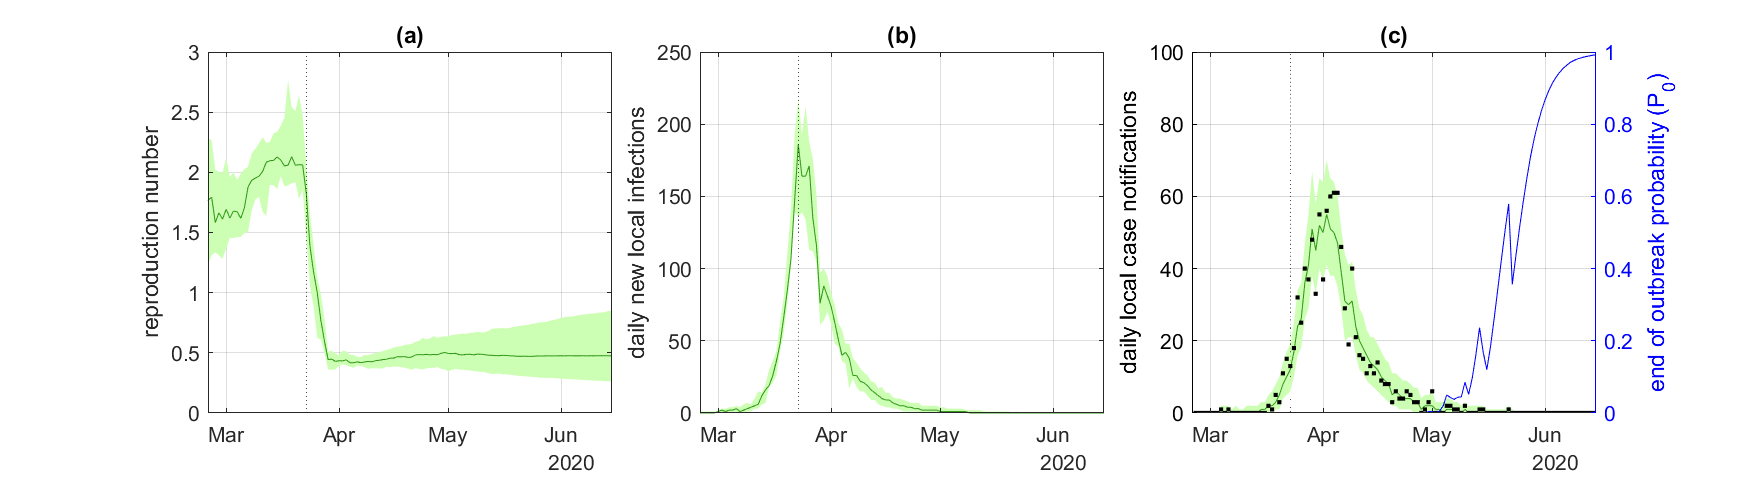
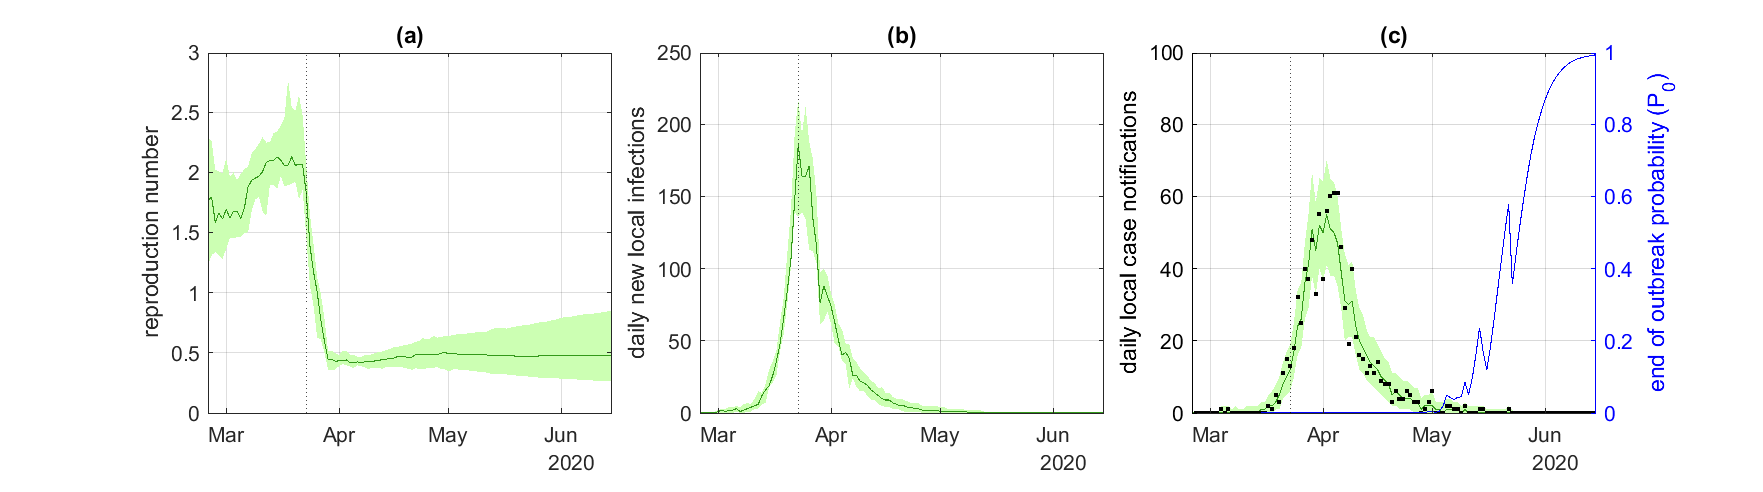
Minor plotting updates

diff --git a/code/makePlots.m b/code/makePlots.m
@@ -270,13 +270,15 @@ end
 
 
 
-% Additional figures
-ttls = ["(a)", "(b)", "(c)", "(d)", "(e)", "(f)"];
+% Supplementary figures
+iFig = 1;
+plotTitles = ["(a)", "(b)", "(c)", "(d)", "(e)", "(f)"];
 
 for iOutbreak = 1:2
     fNameData = sprintf('%s_processed.csv', outbreakLbl(iOutbreak));
     processed = readtable(dataFolder+fNameData);
     
+    % Set of scenario numbers to include in each plot
     scenarioSet{1} = 1:6;
     scenarioSet{2} = [1 7 8];
     scenarioSet{3} = [1 9 10 11 12];
@@ -326,7 +328,7 @@ for iOutbreak = 1:2
             ylabel('daily local infections')
             xlim([processed.t(1)-1, t(end) ]);
             grid on
-            title(ttls(ii));
+            title(plotTitles(ii));
         
             nexttile;
             yyaxis left
@@ -356,7 +358,7 @@ for iOutbreak = 1:2
     
         end
         if saveFlag 
-          saveas(h, figuresFolder+sprintf('fig%i.png', iFig));
+          saveas(h, figuresFolder+sprintf('figS%i.png', iFig));
         end
         iFig = iFig+1;
     end
